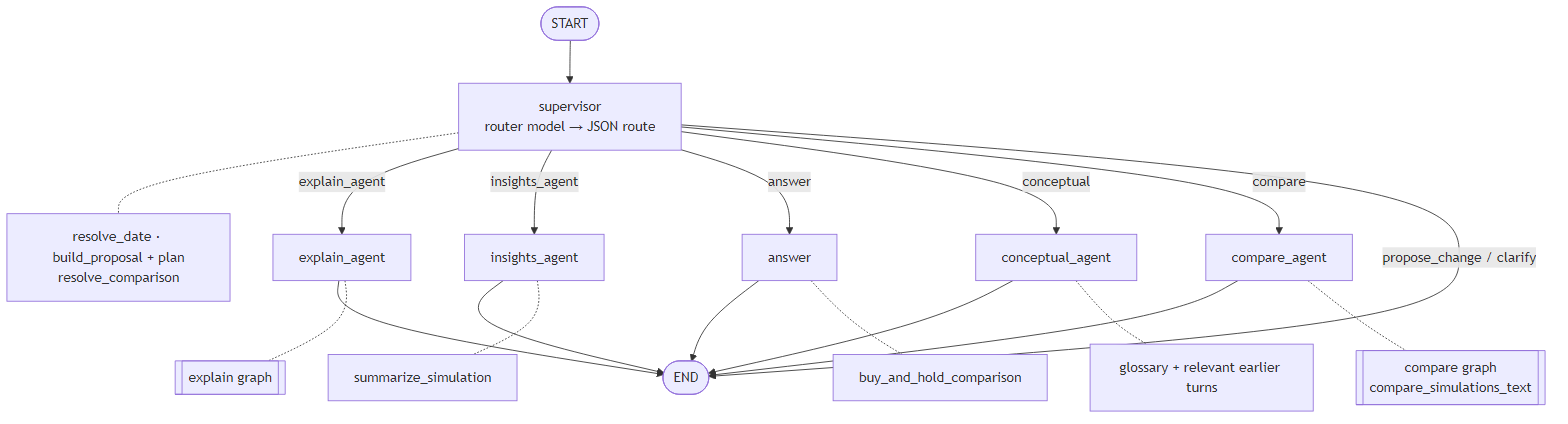
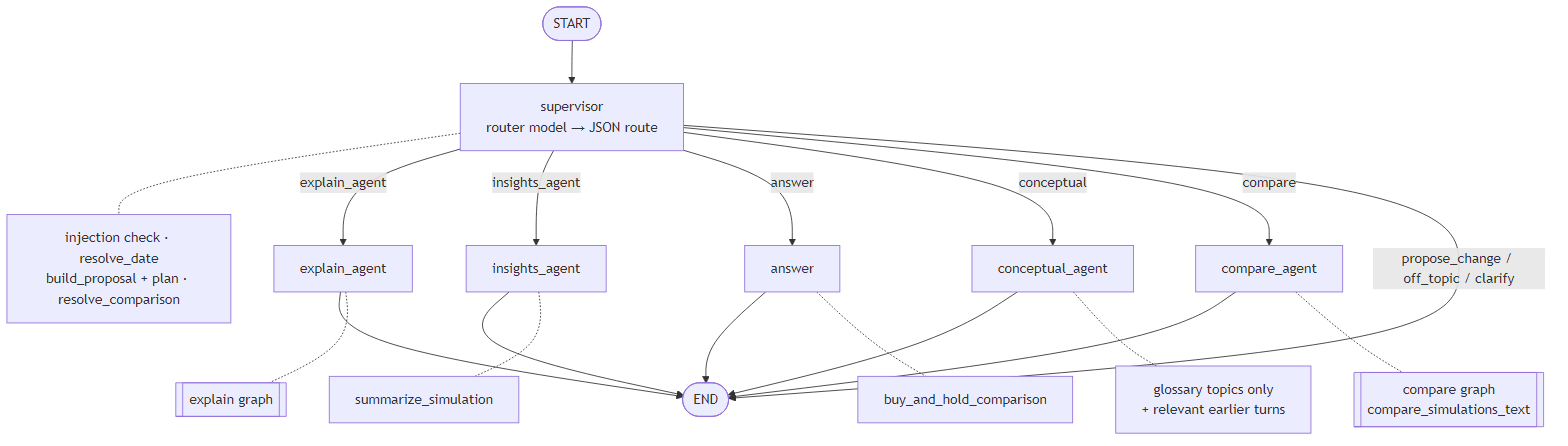
docs(agents): document the off_topic route and the on-topic guarantee

diff --git a/docs/agents.md b/docs/agents.md
@@ -66,24 +66,24 @@ flowchart LR
 
 ### chat (US-22/25)
 
-The `supervisor` asks the router model for a route as JSON (`routing/router.py`); Python validates it and resolves dates, risk proposals and the simulation to compare with. `propose_change` and `clarify` answer directly from the supervisor and end the turn.
+The `supervisor` asks the router model for a route as JSON (`routing/router.py`); Python validates it and resolves dates, risk proposals and the simulation to compare with. `propose_change`, `off_topic` and `clarify` answer directly from the supervisor and end the turn; `off_topic` and `clarify` always use fixed text, never the router's own wording.
 
 ```mermaid
 flowchart TB
     S([START]) --> SUP[supervisor<br/>router model → JSON route]
-    SUP -.- h[resolve_date · build_proposal + plan<br/>resolve_comparison]
+    SUP -.- h[injection check · resolve_date<br/>build_proposal + plan · resolve_comparison]
     SUP -->|explain_agent| EA[explain_agent]
     SUP -->|insights_agent| IA[insights_agent]
     SUP -->|answer| AN[answer]
     SUP -->|conceptual| CA[conceptual_agent]
     SUP -->|compare| CO[compare_agent]
-    SUP -->|propose_change / clarify| E([END])
+    SUP -->|propose_change / off_topic / clarify| E([END])
     EA & IA & AN & CA & CO --> E
 
     EA -.- g1[[explain graph]]
     IA -.- t1[summarize_simulation]
     AN -.- t2[buy_and_hold_comparison]
-    CA -.- t3[glossary + relevant earlier turns]
+    CA -.- t3[glossary topics only<br/>+ relevant earlier turns]
     CO -.- g2[[compare graph<br/>compare_simulations_text]]
 ```
 
@@ -205,6 +205,7 @@ flowchart LR
 
 ## 3. Shared guarantees
 
+- **On topic only.** Questions about anything other than trading, the student's simulations or the platform, and attempts to override the instructions, get a fixed reply: the chat routes them to `off_topic` (an injection check runs before any model call, and `conceptual` only answers questions about a glossary topic), the knowledge agent refuses them and the setup agent asks for a simulation description (`agents/common/scope.py`).
 - **Own data only.** Every tool and service checks that the simulation or configuration belongs to the student (`user_id`); otherwise it is a 404.
 - **Code computes, the model only writes.** Numbers, dates, differences and selections come from Python; the model turns them into plain language.
 - **Verification.** `verify` rejects any number or date that is not in the facts (`agents/insights/verify.py`), comparisons the wrong way round (compare) and promises about future results; the model gets one retry, then the text is dropped.
